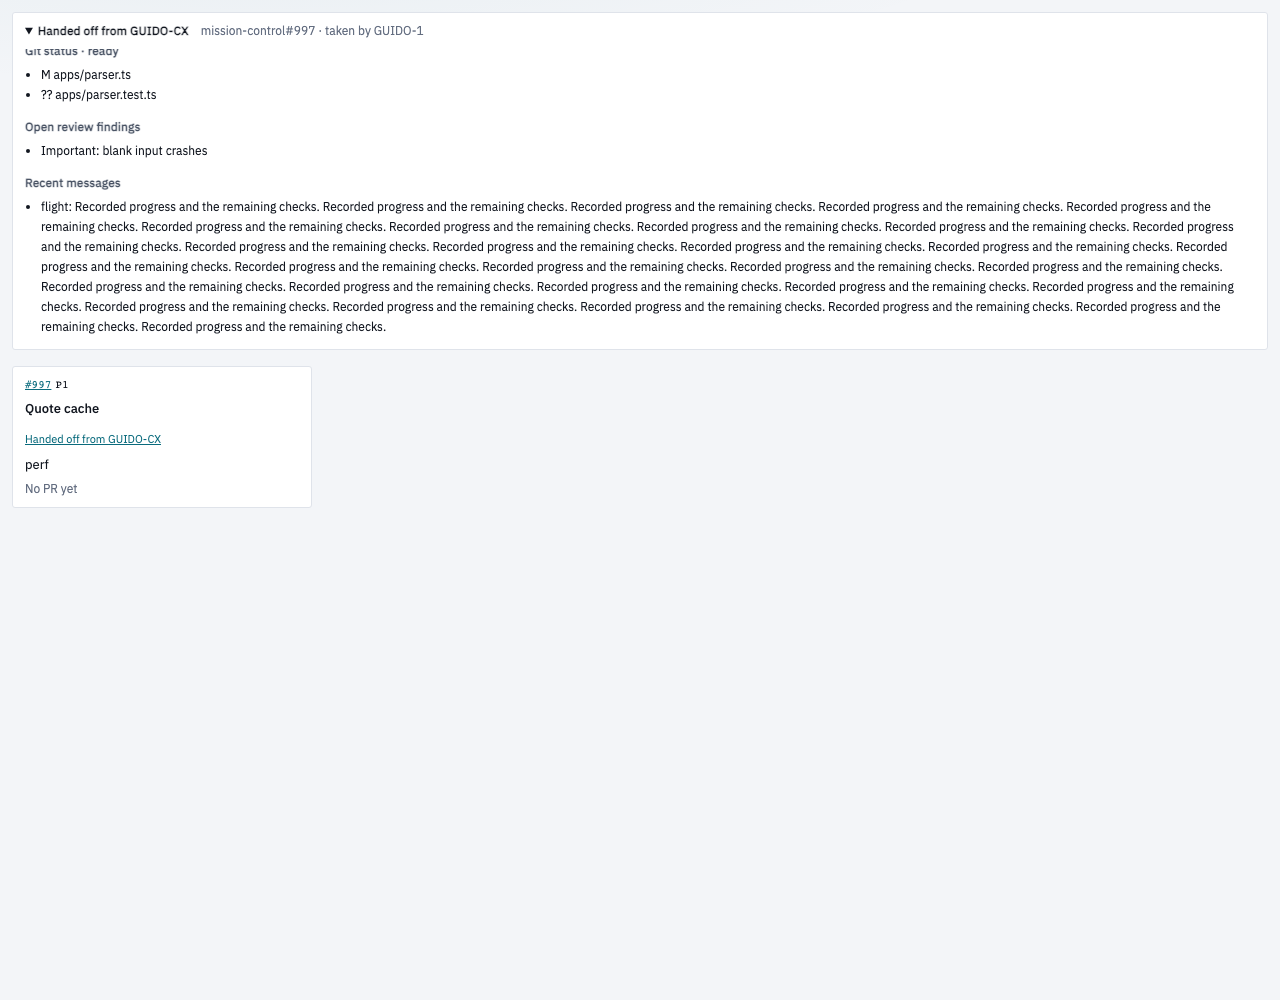
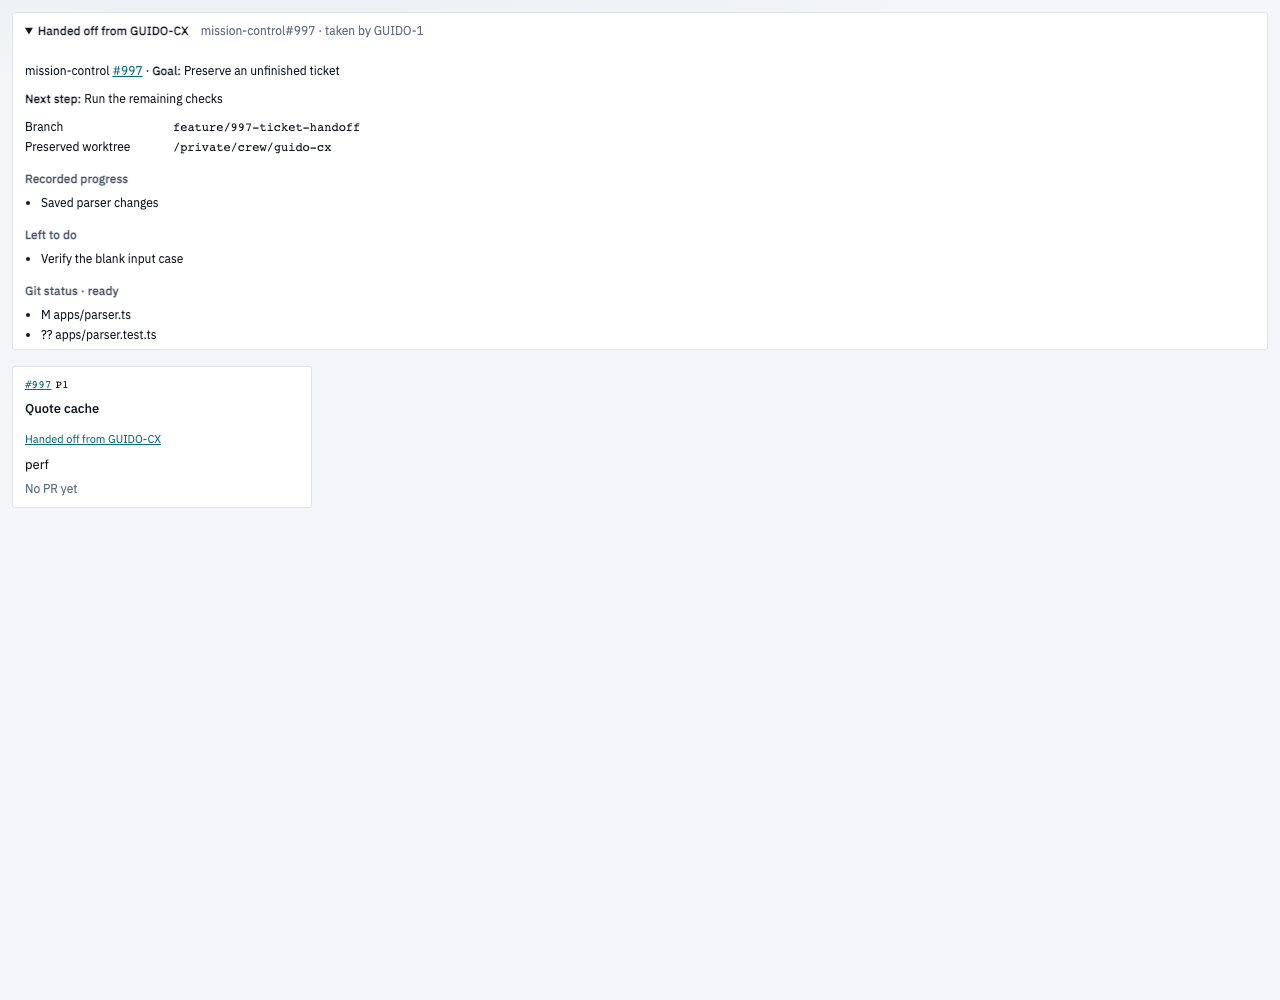
test(#997): show the start of the saved note in viewport evidence

Changed region(s): [[0.0, 0.031, 0.9688, 0.341]]

diff --git a/apps/web/test/HandoffPanel.browser.test.ts b/apps/web/test/HandoffPanel.browser.test.ts
@@ -52,6 +52,10 @@ describeRendered("Saved ticket handoff", () => {
       for (const link of await page.boxes(".handoff-link"))
         expect(link.height).toBeGreaterThanOrEqual(24);
       if (shots) {
+        await page.evaluate(() => {
+          const note = document.querySelector<HTMLElement>(".handoff-body");
+          if (note) note.scrollTop = 0;
+        }, null);
         mkdirSync(shots, { recursive: true });
         await page.screenshot(join(shots, `handoff-${width}-${theme}.png`));
       }
